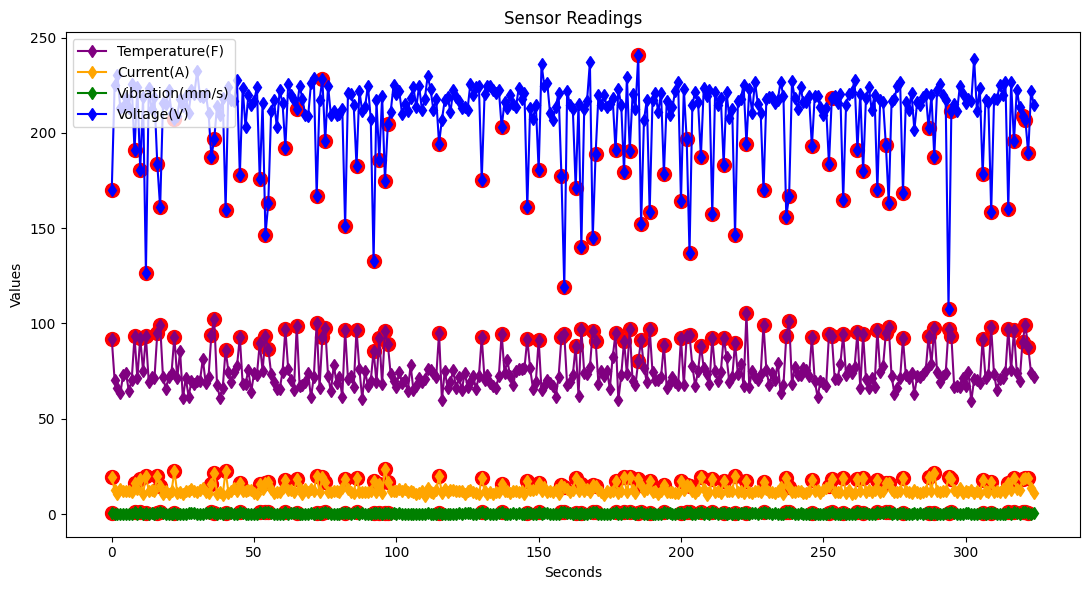
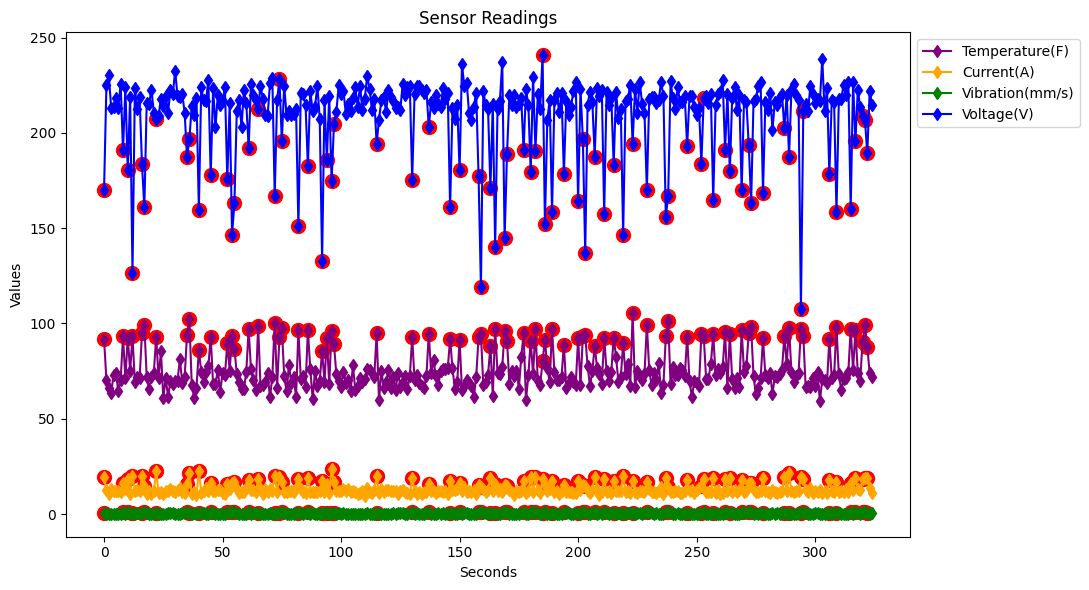
Cleaned upload_file() and predict() functions in run_model.py

diff --git a/src/templates/index.html b/src/templates/index.html
@@ -12,7 +12,7 @@
         <form method="post" action="/upload" enctype="multipart/form-data">
             <div class="form-group">
                 <label for="file">CSV File</label>
-                <input type="file" class="form-control-file" id="file" name="file">
+                <input type="file" class="form-control-file" id="file" name="data_file">
             </div>
             <button type="submit" class="btn btn-primary">Upload</button>
         </form>

diff --git a/src/run_model.py b/src/run_model.py
@@ -7,8 +7,8 @@ from flask import Flask, redirect, render_template, request, url_for
 
 # Configuring Flask
 app = Flask(__name__)
-app.config["UPLOAD_FOLDER"] = "uploads"
-os.makedirs(app.config["UPLOAD_FOLDER"], exist_ok=True)
+os.makedirs("uploads", exist_ok=True)
+file_path = None
 
 # Load the trained model
 model_path = "models/Anomaly_Detection_100HP_Motor.pkl"
@@ -24,22 +24,21 @@ def index():
 
 @app.route("/upload", methods=["POST"])
 def upload_file():
-    if "file" not in request.files:
-        print(request.url)
-        return redirect(request.url)
-    file = request.files["file"]
-    if file.filename == "":
-        return redirect(request.url)
+    file = request.files["data_file"]
+
     if file:
+        global file_path
         filename = file.filename
-        file_path = os.path.join(app.config["UPLOAD_FOLDER"], filename)
+        file_path = os.path.join("uploads", filename)
         file.save(file_path)
         return redirect(url_for("predict", filename=filename))
+    else:
+        print("NO FILE!!!")
+        return render_template("index.html")
 
 
 @app.route("/predict/<filename>")
 def predict(filename):
-    file_path = os.path.join(app.config["UPLOAD_FOLDER"], filename)
     data = pd.read_csv(file_path)
 
     # Assuming the data has the same structure as the training data
@@ -52,7 +51,6 @@ def predict(filename):
     # Plot the results
     plot(test_df=data, y_pred=y_pred)
     plot_url = url_for("static", filename="plot.png")
-    print(acc)
     return render_template("result.html", plot_url=plot_url, acc=acc)
 
 
@@ -125,11 +123,10 @@ def plot(test_df, y_pred):
     plt.ylabel("Values")
     plt.legend(
         loc="upper left",
-        # bbox_to_anchor=(1, 1),
+        bbox_to_anchor=(1, 1),
     )
     plt.tight_layout()  # Adjust layout to make room for the legend
     plt.savefig("static/plot.png", bbox_inches="tight")  # Save with tight bounding box
-    plt.show()
     plt.close()
 
 
